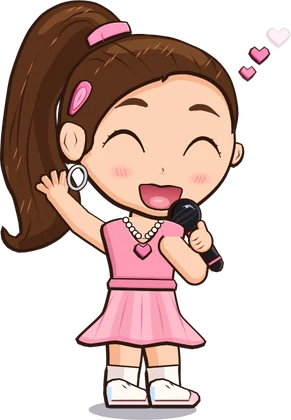
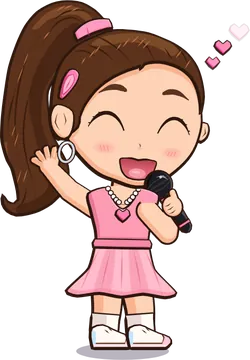
China page: faster loading (phone-sized hero, 4 KB pattern, lighter chibis and photos, tiny handwriting font, a day of caching for images and fonts)
Claude-Session: https://claude.ai/code/session_01GPJjWGdwk2q5dZmvqmKnXe

diff --git a/china/index.html b/china/index.html
@@ -14,7 +14,8 @@
 <link rel="icon" href="img/icon-180.png">
 <link rel="apple-touch-icon" href="img/icon-180.png">
 <link rel="preload" href="fonts/honey.woff2" as="font" type="font/woff2" crossorigin>
-<link rel="preload" href="img/hero.webp" as="image">
+<link rel="preload" href="fonts/dilo.woff2" as="font" type="font/woff2" crossorigin>
+<link rel="preload" as="image" href="img/hero.webp" imagesrcset="img/hero-400.webp 400w, img/hero.webp 640w" imagesizes="(max-width:860px) 330px, 460px">
 <!-- China-friendly on purpose: every file is local. No Google, YouTube, Facebook or other blocked hosts. -->
 <style>
 @font-face{font-family:"Honey Monly";font-display:swap;src:url(fonts/honey.woff2) format("woff2")}
@@ -471,7 +472,7 @@ body.loading{overflow:hidden}
     </div>
     <div class="stage fade" style="animation-delay:.3s">
       <span class="note n1" aria-hidden="true">🎵</span><span class="note n2" aria-hidden="true">🎶</span><span class="note n3" aria-hidden="true">🎤</span>
-      <img class="pic" src="img/hero.webp" alt="RoxorLoops & Jasmin" width="640" height="713" fetchpriority="high">
+      <img class="pic" src="img/hero.webp" srcset="img/hero-400.webp 400w, img/hero.webp 640w" sizes="(max-width:860px) 330px, 460px" alt="RoxorLoops & Jasmin" width="640" height="713" fetchpriority="high">
     </div>
   </div>
   <span class="cue" aria-hidden="true"></span>
